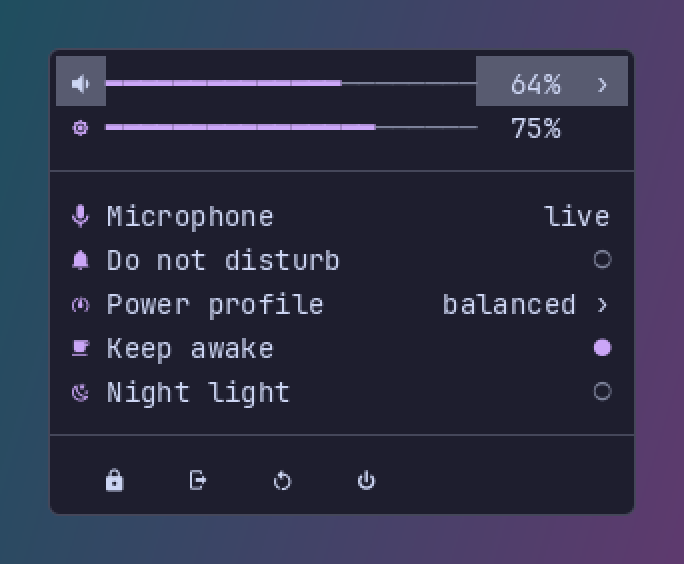
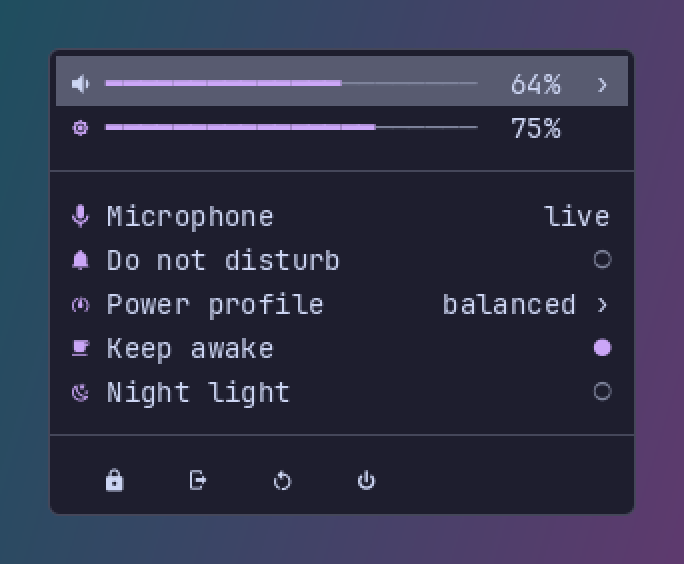
fix(quick): the selection band spans a slider's whole row, its track on the band in its own colours
A selected slider row showed the band on the glyph and on '64%  ›' but not on the track, which looked broken (final review). osd::level now puts the bar cells on the selection background, keeping their accent, dim or warn foreground. docs/images/quick.png regenerated (fictional data).

Claude-Session: https://claude.ai/code/session_01HzNeDR4JYYs9cqajYqdQVP

Changed region(s): [[0.1535, 0.0904, 0.7061, 0.211]]

diff --git a/crates/alpheus-demon/src/quick.rs b/crates/alpheus-demon/src/quick.rs
@@ -1013,8 +1013,8 @@ fn mark_style(on: Option<bool>) -> Style {
 
 /// "G ━━━━━━━━━━━━━━────────  64%  ›" (spec § 2), the OSD's level (`osd::level`) one pad cell in:
 /// the glyph dim when muted; filled in the accent, the rest dim; muted, all dim; above 100 %, the
-/// whole bar in warn. Selected: the band behind the glyph, the percentage and the arrow; the bar
-/// keeps its colours (decision 6).
+/// whole bar in warn. Selected: the band across the whole row, the track included; the bar
+/// keeps its own foreground on it (decision 6).
 fn slider(g: &mut Grid, glyph: char, v: Volume, more: bool, selected: bool) {
     let end = g.width();
     if selected {
@@ -1066,6 +1066,7 @@ pub fn describe(live: &Live, q: &Quick) -> String {
 #[cfg(test)]
 mod tests {
     use super::*;
+    use crate::grid::Tint;
     use crate::segments::VOLUME_MEDIUM;
     use crate::system::Profile;
 
@@ -1149,11 +1150,20 @@ mod tests {
         assert_eq!(t[4], format!(" {BELL} Do not disturb{}○", " ".repeat(15)));
         assert_eq!(t[5], format!(" {PROFILE} Power profile{}balanced ›", " ".repeat(7)));
         assert_eq!(t[7], format!("   {LOCK}    {REBOOT}    {POWER}"), "lock, reboot, power off: logout is empty by default");
-        assert_eq!(
-            b.rows[0].styles(),
-            format!("SSS{}{}{}", "a".repeat(14), "m".repeat(8), "S".repeat(9)),
-            "selected: the band around the bar, the bar in its colours (decision 6)"
-        );
+        // Selected: the band spans the whole row, its track included; the bar cells keep their own
+        // foreground on it (decision 6, final review: a band that skipped the track looked broken).
+        let selected = b.rows[0].cells();
+        assert!(selected.iter().all(|c| c.style.bg == Tint::Selection), "the band spans the row: {}", b.rows[0].styles());
+        assert_eq!((&b.rows[0].styles()[..3], &b.rows[0].styles()[25..]), ("SSS", "S".repeat(9).as_str()));
+        let track: String = selected[3..25]
+            .iter()
+            .map(|c| match c.style.fg {
+                Tint::Accent => 'a',
+                Tint::FgDim => 'm',
+                _ => '?',
+            })
+            .collect();
+        assert_eq!(track, format!("{}{}", "a".repeat(14), "m".repeat(8)), "the bar in its colours, on the band");
         assert_eq!(b.rows[1].styles(), format!(".a.{}{}{}", "a".repeat(16), "m".repeat(6), ".".repeat(9)));
         assert_eq!(&b.rows[4].styles()[32..33], "m", "○ in fg_dim");
     }
@@ -1176,11 +1186,13 @@ mod tests {
         assert_eq!(&b.rows[4].styles()[32..33], "a", "● in the accent");
         assert_eq!(t[6], format!(" {KEEP_AWAKE} Keep awake{}●", " ".repeat(19)));
         assert_eq!(t[7], format!(" {NIGHT_LIGHT} Night light{}·", " ".repeat(18)), "unknown state");
-        assert!(b.rows[0].styles()[3..25].chars().all(|c| c == 'w'), "above 100 %: the whole bar in warn: {}", b.rows[0].styles());
+        // The volume row is selected: its track on the band, in its own foreground.
+        let track = |b: &Boxed| b.rows[0].cells()[3..25].iter().map(|c| c.style.fg).collect::<Vec<_>>();
+        assert!(track(&b).iter().all(|f| *f == Tint::Warn), "above 100 %: the whole bar in warn: {:?}", track(&b));
         let mut muted = World::full();
         muted.sound.sink = vol(64, true);
         let b = rows(&muted.live(), &quick(&muted, Focus::Top));
-        assert!(b.rows[0].styles()[3..25].chars().all(|c| c == 'm'), "muted: the bar dimmed");
+        assert!(track(&b).iter().all(|f| *f == Tint::FgDim), "muted: the bar dimmed: {:?}", track(&b));
     }
 
     #[test]

diff --git a/crates/alpheus-demon/src/osd.rs b/crates/alpheus-demon/src/osd.rs
@@ -7,7 +7,7 @@
 //! a command.
 
 use crate::config::OsdConfig;
-use crate::grid::{Grid, Style};
+use crate::grid::{Grid, Style, Tint};
 use crate::list::{self, Boxed};
 use crate::media::truncate_title;
 use crate::segments::{VOLUME_HIGH, VOLUME_LOW, VOLUME_MEDIUM, VOLUME_OFF};
@@ -263,8 +263,8 @@ pub(crate) fn percent(g: &mut Grid, end: u16, v: Volume, selected: bool) {
 
 /// "G ━━━━━━━━━━━━━━━━─────────  64%" from `at` to `end` (excluded): the glyph, a space, the bar,
 /// one blank cell, the percentage. Filled in the accent, the rest dim; muted, all dim; above
-/// 100 %, the whole bar in `warn`. `selected` (the quick panel's slider rows): the glyph, its space
-/// and the percentage on the selection band, the bar in its own colours.
+/// 100 %, the whole bar in `warn`. `selected` (the quick panel's slider rows): the whole of it on the
+/// selection band, the bar cells keeping their own foreground (accent, dim, warn).
 pub(crate) fn level(g: &mut Grid, at: u16, end: u16, glyph: char, v: Volume, selected: bool) {
     let pick = |s: Style| if selected { Style::SELECTED } else { s };
     let bar = end.saturating_sub(at).saturating_sub(3 + PERCENT_CELLS);
@@ -278,6 +278,8 @@ pub(crate) fn level(g: &mut Grid, at: u16, end: u16, glyph: char, v: Volume, sel
         (false, true) => (Style::WARN, Style::WARN),
         (false, false) => (Style::ACCENT, Style::MUTED),
     };
+    let band = |s: Style| if selected { Style { bg: Tint::Selection, ..s } } else { s };
+    let (on, off) = (band(on), band(off));
     let x = g.write(x, end, &"━".repeat(usize::from(filled)), on);
     g.write(x, end, &"─".repeat(usize::from(bar.saturating_sub(filled))), off);
     percent(g, end, v, selected);
